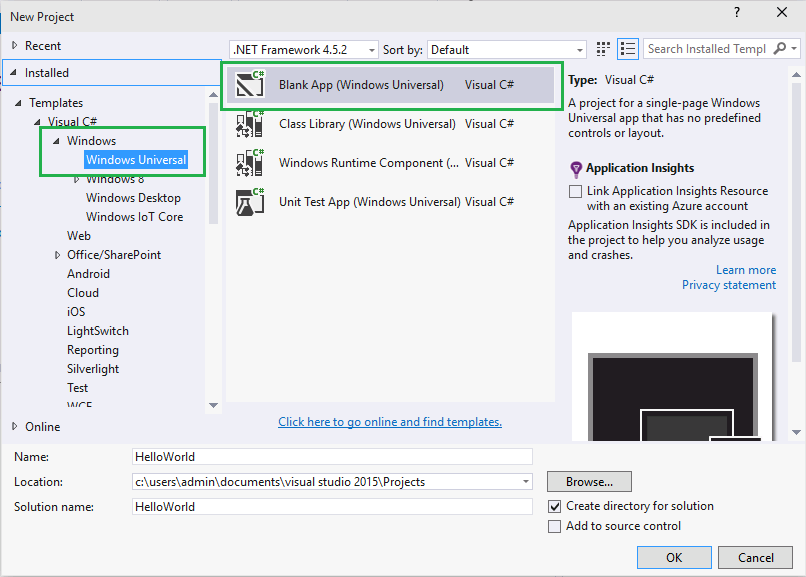
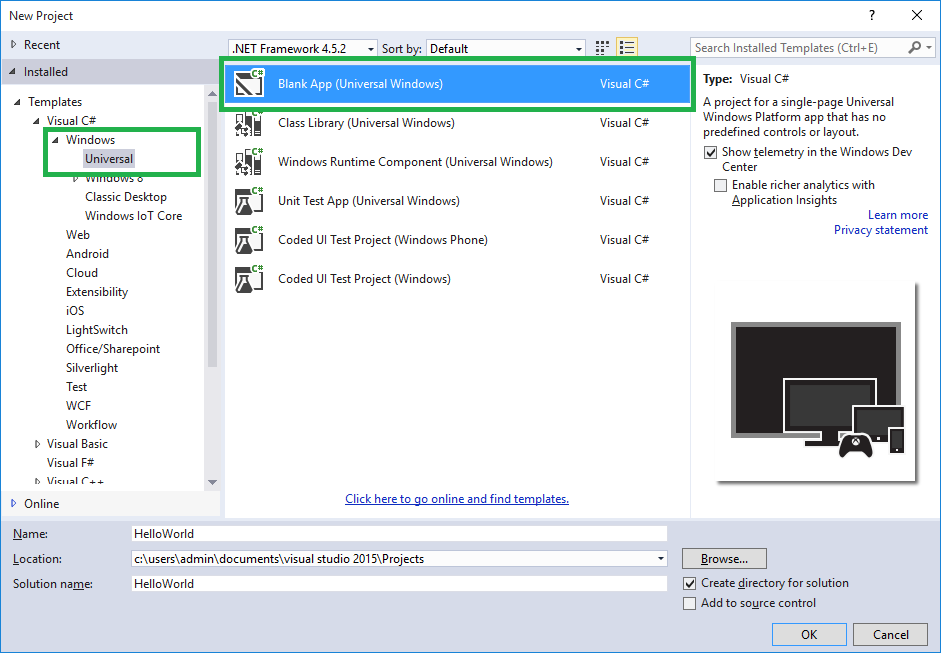
Update HelloWorld sample doc to reflect changes to VS UI and version

diff --git a/en-US/win10/samples/HelloWorld.md b/en-US/win10/samples/HelloWorld.md
@@ -14,7 +14,7 @@ Start Visual Studio 2015 RC.
 
 Create a new project (File \| New Project...).
 
-In the `New Project` dialog, navigate to `Windows Universal` as shown below (in the left pane in the dialog: Templates \| Visual C# \| Windows \| Windows Universal).
+In the `New Project` dialog, navigate to `Universal` as shown below (in the left pane in the dialog: Templates \| Visual C# \| Windows \| Universal).
 
 Select the template `Blank App (Windows Universal)`
 
@@ -28,7 +28,7 @@ If this is the first project you create, Visual Studio will likely prompt you to
 
 ###Add a reference to the Windows IoT extension SDK
 
-Since the IoT extension SDK is not added to projects by default, we'll need to add a reference so that namespaces like `Windows.Devices.Gpio` will be available in the project.  To do so, just right-click on the References entry under the project, Select "Add Reference" then navigate the resulting dialog to `Windows Universal->Extensions->Windows IoT Extension SDK`, check the box, and click OK.
+Since the IoT extension SDK is not added to projects by default, we'll need to add a reference so that namespaces like `Windows.Devices.Gpio` will be available in the project.  To do so, just right-click on the References entry under the project, Select "Add Reference" then navigate the resulting dialog to `Universal Windows->Extensions->Windows IoT Extensions for the UWP`, check the box, and click OK.
 
 ![Add Extension SDK]({{site.baseurl}}/images/HelloWorld/Add_IoT_Extension_Reference.PNG)
 
